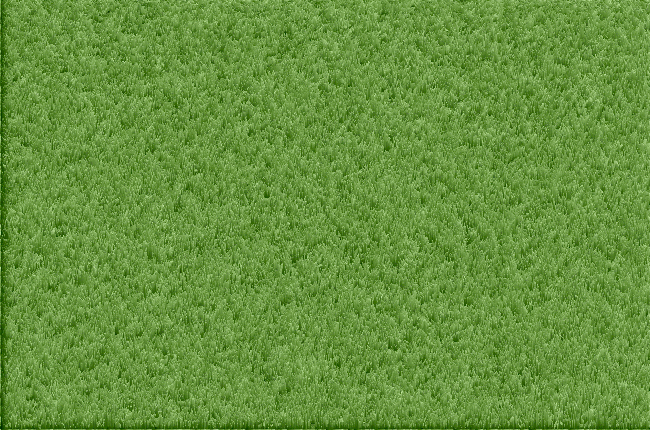
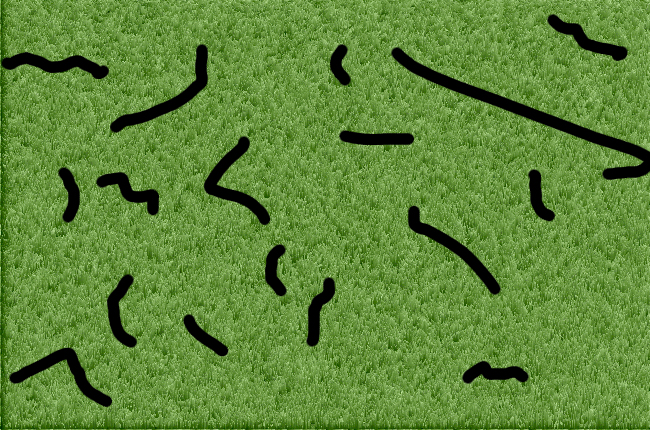
Custom scene now renders a few mountains.

diff --git a/main.cpp b/main.cpp
@@ -131,8 +131,9 @@ void InitScene() {
 
   glMatrixMode(GL_MODELVIEW);
   setLights();
-  eye = Vec3f::makeVec(20, 20, 50);
+  eye = Vec3f::makeVec(20, 50, 50);
   pan_scale *= 20.0f;
+  light1_pos = Vec3f::makeVec(1000, 1000, 1000);  // It's the sun
 }
 
 void Display() {
@@ -184,6 +185,8 @@ void DisplayScene() {
   glEnable(GL_LIGHTING);
   glShadeModel(GL_SMOOTH);
   glEnable(GL_LIGHT0);
+
+  glLightfv(GL_LIGHT1, GL_POSITION, light1_pos.x);
 
   RenderMesh(&mesh);
   Outline(&mesh);
